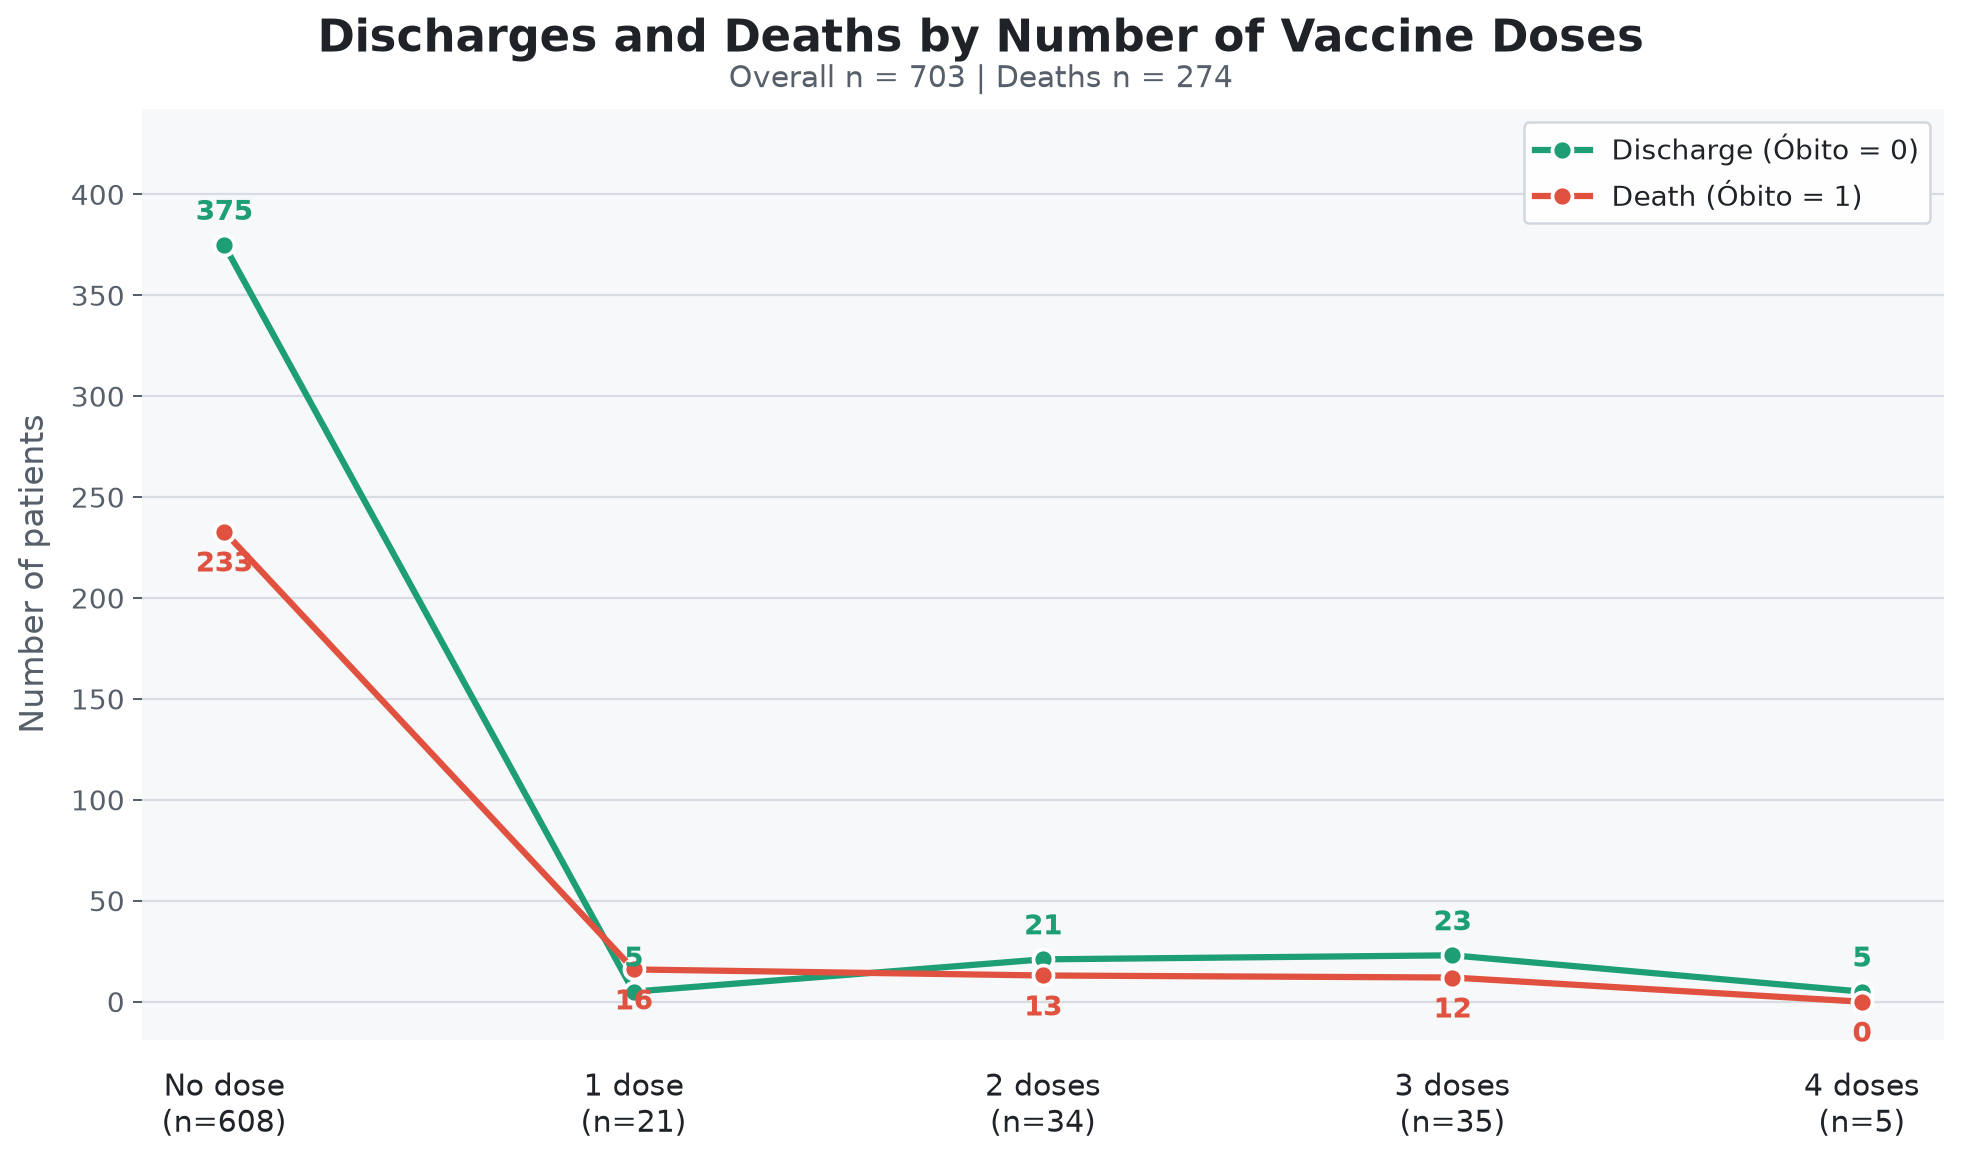
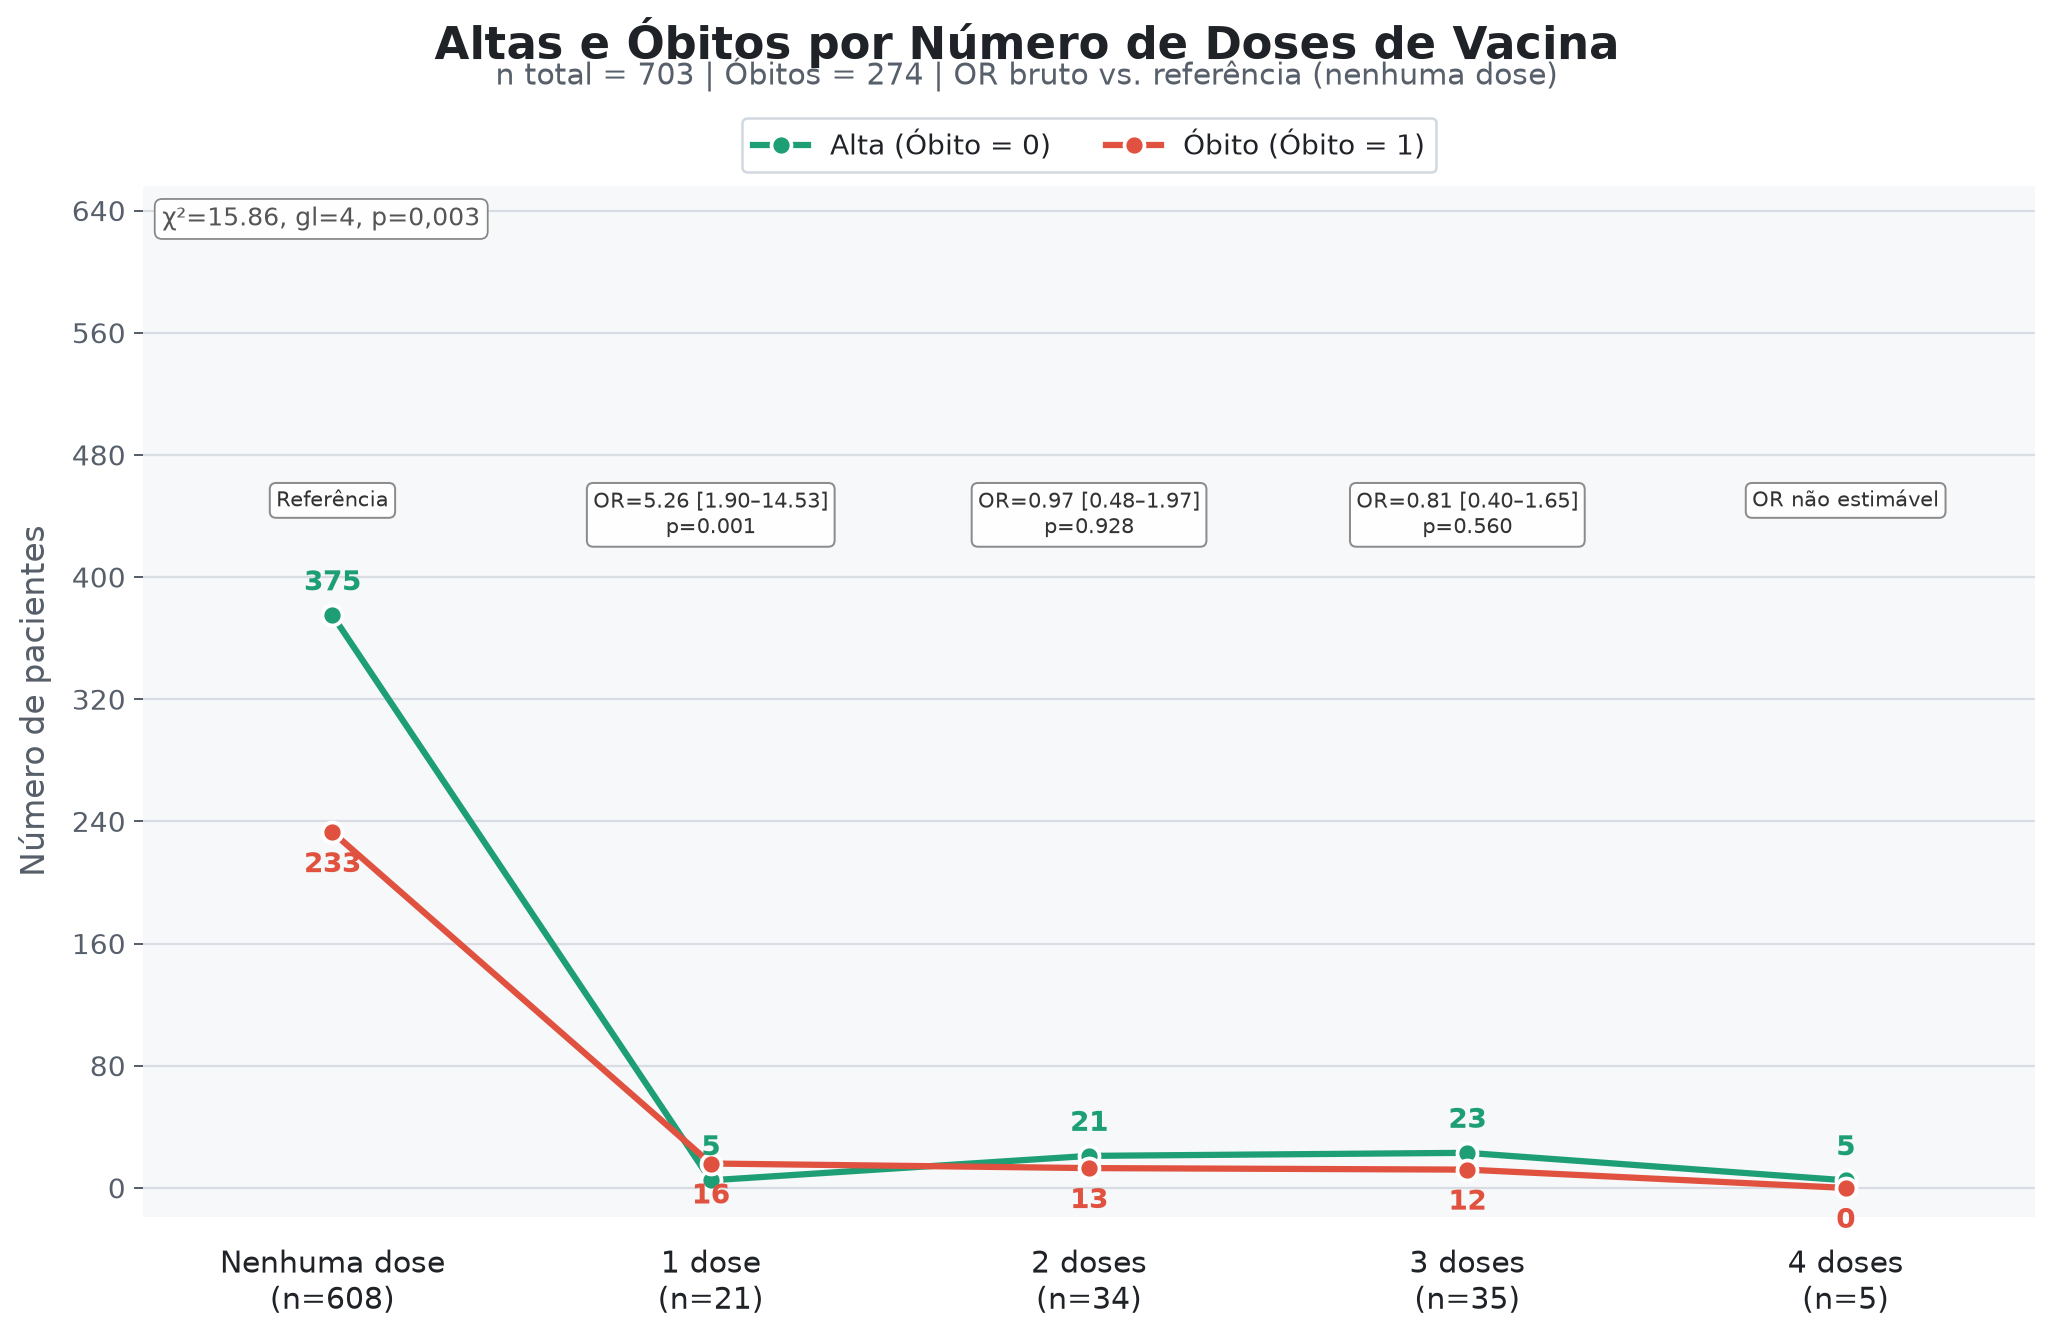
Translate dose outcome line chart to Portuguese and add per-dose stats
Adds a global chi-square test of association between number of doses
and outcome plus crude OR (vs. no dose) annotations per dose category,
and translates all chart text to Portuguese.

Claude-Session: https://claude.ai/code/session_01XH5oXC7ooCrnQVbPhtjYiY

diff --git a/13_lineplot_doses_outcome.py b/13_lineplot_doses_outcome.py
@@ -1,28 +1,35 @@
 import os
+import warnings
 
+import numpy as np
 import pandas as pd
 import matplotlib.pyplot as plt
 import matplotlib.ticker as mticker
+import statsmodels.api as sm
+import statsmodels.formula.api as smf
+from scipy.stats import chi2_contingency
+
+warnings.filterwarnings("ignore")
 
 # ─────────────────────────────────────────────────────────────────────────
 XLSX_PATH = "703pacientes.xlsx"
 OUTPUT_PNG = os.path.join(os.path.dirname(os.path.abspath(__file__)),
                           "lineplot_doses_outcome.png")
 
-DOSE_LABELS = {0: "No dose", 1: "1 dose", 2: "2 doses",
+DOSE_LABELS = {0: "Nenhuma dose", 1: "1 dose", 2: "2 doses",
                3: "3 doses", 4: "4 doses"}
 
-# ── Palette ───────────────────────────────────────────────────────────────
+# ── Paleta ────────────────────────────────────────────────────────────────
 BG = "#FFFFFF"
 PANEL = "#F6F8FA"
 BORDER = "#D0D7DE"
 TEXT = "#1F2328"
 SUBTEXT = "#57606A"
-COR_ALTA = "#1D9E75"   # discharge (good outcome)
-COR_OBITO = "#E0523F"  # death (critical outcome)
+COR_ALTA = "#1D9E75"   # alta (desfecho favorável)
+COR_OBITO = "#E0523F"  # óbito (desfecho crítico)
 
 # ════════════════════════════════════════════════════════════
-# 1. LOAD AND AGGREGATE
+# 1. CARREGAR E AGREGAR OS DADOS
 # ════════════════════════════════════════════════════════════
 dados = pd.read_excel(XLSX_PATH)
 tab = pd.crosstab(dados["Vacinas"], dados["Óbito"]).reindex(
@@ -32,12 +39,45 @@ tab.columns = ["Alta", "Obito"]
 x = list(range(len(tab)))
 labels = [DOSE_LABELS[d] for d in tab.index]
 n_total = len(dados)
-n_deaths = int(dados["Óbito"].sum())
+n_obitos = int(dados["Óbito"].sum())
 
 # ════════════════════════════════════════════════════════════
-# 2. LINE CHART
+# 2. ANÁLISE ESTATÍSTICA POR DOSE
 # ════════════════════════════════════════════════════════════
-fig, ax = plt.subplots(figsize=(11, 6.5), facecolor=BG)
+# Teste qui-quadrado global (associação entre nº de doses e desfecho)
+chi2, p_chi2, dof, _ = chi2_contingency(tab[["Alta", "Obito"]])
+
+# OR bruto de cada dose vs. referência (nenhuma dose), via regressão
+# logística simples (Óbito ~ dose), mesma abordagem do forest plot de doses
+dados_dummies = pd.get_dummies(dados, columns=["Vacinas"], dtype=int,
+                                drop_first=True)
+or_por_dose = {0: None}  # referência não tem OR
+for dose in [1, 2, 3, 4]:
+    var = f"Vacinas_{dose}"
+    modelo = smf.glm(f"Óbito ~ {var}", data=dados_dummies,
+                      family=sm.families.Binomial()).fit()
+    beta = modelo.params[var]
+    p = modelo.pvalues[var]
+    lo, hi = modelo.conf_int().loc[var]
+    or_val, lo_val, hi_val = np.exp(beta), np.exp(lo), np.exp(hi)
+    or_por_dose[dose] = (or_val, lo_val, hi_val, p)
+
+
+def formata_or(item):
+    if item is None:
+        return "Referência"
+    or_val, lo_val, hi_val, p = item
+    if or_val < 1e-6:
+        return "OR não estimável"
+    hi_str = f"{min(hi_val, 999):.2f}" if np.isfinite(hi_val) else "∞"
+    p_str = "p<0.001" if p < 0.001 else f"p={p:.3f}"
+    return f"OR={or_val:.2f} [{lo_val:.2f}–{hi_str}]\n{p_str}"
+
+
+# ════════════════════════════════════════════════════════════
+# 3. GRÁFICO DE LINHAS
+# ════════════════════════════════════════════════════════════
+fig, ax = plt.subplots(figsize=(11.5, 7.5), facecolor=BG)
 ax.set_facecolor(PANEL)
 
 ax.yaxis.grid(True, color=BORDER, linewidth=0.9, zorder=0, alpha=0.8)
@@ -47,17 +87,25 @@ for spine in ax.spines.values():
 
 ax.plot(x, tab["Alta"], color=COR_ALTA, linewidth=2.5, marker="o",
         markersize=8, markerfacecolor=COR_ALTA, markeredgecolor=BG,
-        markeredgewidth=1.5, zorder=3, label="Discharge (Óbito = 0)")
+        markeredgewidth=1.5, zorder=3, label="Alta (Óbito = 0)")
 ax.plot(x, tab["Obito"], color=COR_OBITO, linewidth=2.5, marker="o",
         markersize=8, markerfacecolor=COR_OBITO, markeredgecolor=BG,
-        markeredgewidth=1.5, zorder=3, label="Death (Óbito = 1)")
+        markeredgewidth=1.5, zorder=3, label="Óbito (Óbito = 1)")
 
-# Direct value labels above/below each point
+# Rótulos diretos de valor acima/abaixo de cada ponto
 for xi, (a, o) in zip(x, zip(tab["Alta"], tab["Obito"])):
     ax.annotate(str(a), (xi, a), textcoords="offset points", xytext=(0, 10),
                 ha="center", fontsize=11, color=COR_ALTA, fontweight="bold")
     ax.annotate(str(o), (xi, o), textcoords="offset points", xytext=(0, -16),
                 ha="center", fontsize=11, color=COR_OBITO, fontweight="bold")
+
+# Anotações de OR bruto (vs. referência) por dose
+y_max = tab.values.max()
+for xi, dose in zip(x, tab.index):
+    ax.text(xi, y_max * 1.22, formata_or(or_por_dose[dose]),
+            ha="center", va="top", fontsize=8.5, color="#333333",
+            bbox=dict(boxstyle="round,pad=0.3", fc="white", ec="gray",
+                      alpha=0.9, linewidth=0.8))
 
 ax.set_xticks(x)
 ax.set_xticklabels([f"{lab}\n(n={n})" for lab, n in zip(labels, tab.sum(axis=1))],
@@ -65,19 +113,34 @@ ax.set_xticklabels([f"{lab}\n(n={n})" for lab, n in zip(labels, tab.sum(axis=1))
 ax.tick_params(axis="y", colors=SUBTEXT, labelsize=11)
 ax.tick_params(axis="x", length=0, pad=12)
 ax.yaxis.set_major_locator(mticker.MaxNLocator(integer=True))
-ax.set_ylabel("Number of patients", fontsize=13, color=SUBTEXT, labelpad=8)
-ax.set_ylim(-tab.values.max() * 0.05, tab.values.max() * 1.18)
+ax.set_ylabel("Número de pacientes", fontsize=13, color=SUBTEXT, labelpad=8)
+ax.set_ylim(-y_max * 0.05, y_max * 1.75)
+ax.set_xlim(-0.5, len(x) - 0.5)
 
 ax.legend(fontsize=11, frameon=True, edgecolor=BORDER, facecolor=BG,
-          labelcolor=TEXT, loc="upper right", framealpha=0.97)
+          labelcolor=TEXT, loc="lower center", framealpha=0.97,
+          bbox_to_anchor=(0.5, 1.0), ncol=2)
 
-fig.text(0.5, 0.985, "Discharges and Deaths by Number of Vaccine Doses",
+# Anotação do teste qui-quadrado global
+p_chi2_str = "p<0,001" if p_chi2 < 0.001 else f"p={p_chi2:.3f}".replace(".", ",")
+ax.text(0.01, 0.98, f"χ²={chi2:.2f}, gl={dof}, {p_chi2_str}",
+        transform=ax.transAxes, fontsize=10, color="#555555",
+        ha="left", va="top",
+        bbox=dict(boxstyle="round,pad=0.3", fc="white", ec="gray",
+                  alpha=0.95, linewidth=0.7))
+
+fig.text(0.5, 0.985, "Altas e Óbitos por Número de Doses de Vacina",
           ha="center", va="top", fontsize=18, fontweight="bold", color=TEXT)
-fig.text(0.5, 0.945, f"Overall n = {n_total} | Deaths n = {n_deaths}",
+fig.text(0.5, 0.955,
+          f"n total = {n_total} | Óbitos = {n_obitos} | "
+          "OR bruto vs. referência (nenhuma dose)",
           ha="center", va="top", fontsize=12, color=SUBTEXT)
 
 plt.tight_layout(rect=[0, 0, 1, 0.93])
 plt.savefig(OUTPUT_PNG, dpi=180, bbox_inches="tight", facecolor=BG)
-print(f"Chart saved to: {OUTPUT_PNG}")
+print(f"Gráfico salvo em: {OUTPUT_PNG}")
 print(tab)
+print(f"\nQui-quadrado global: chi2={chi2:.3f}, gl={dof}, p={p_chi2:.4f}")
+for dose, item in or_por_dose.items():
+    print(f"Dose {dose}: {item}")
 plt.show()
